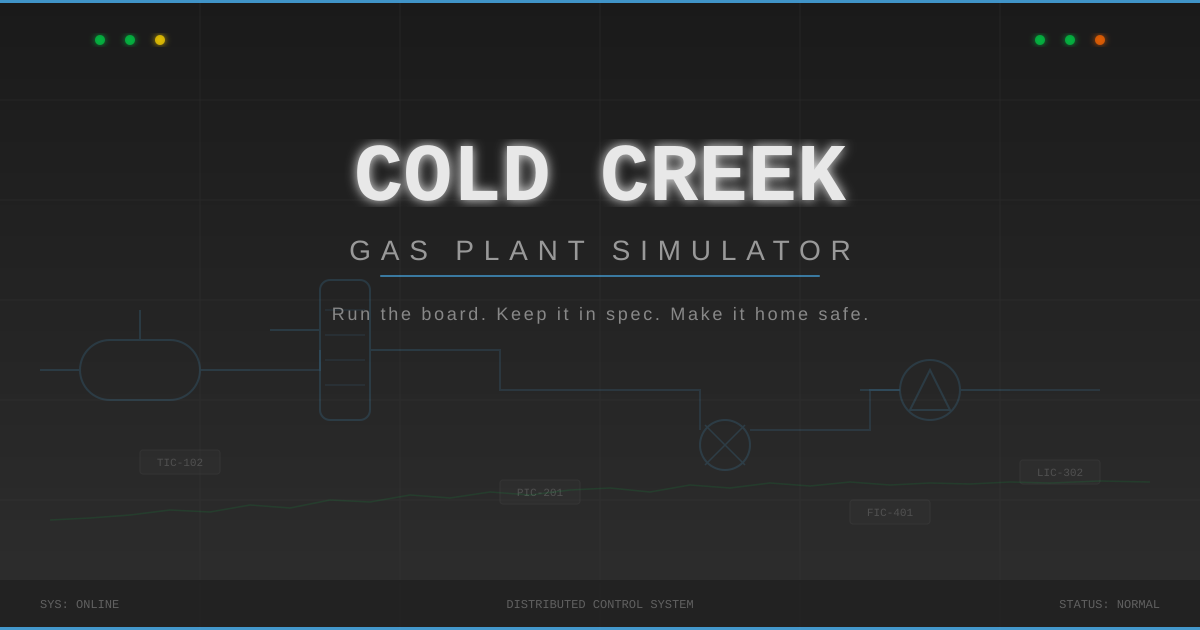
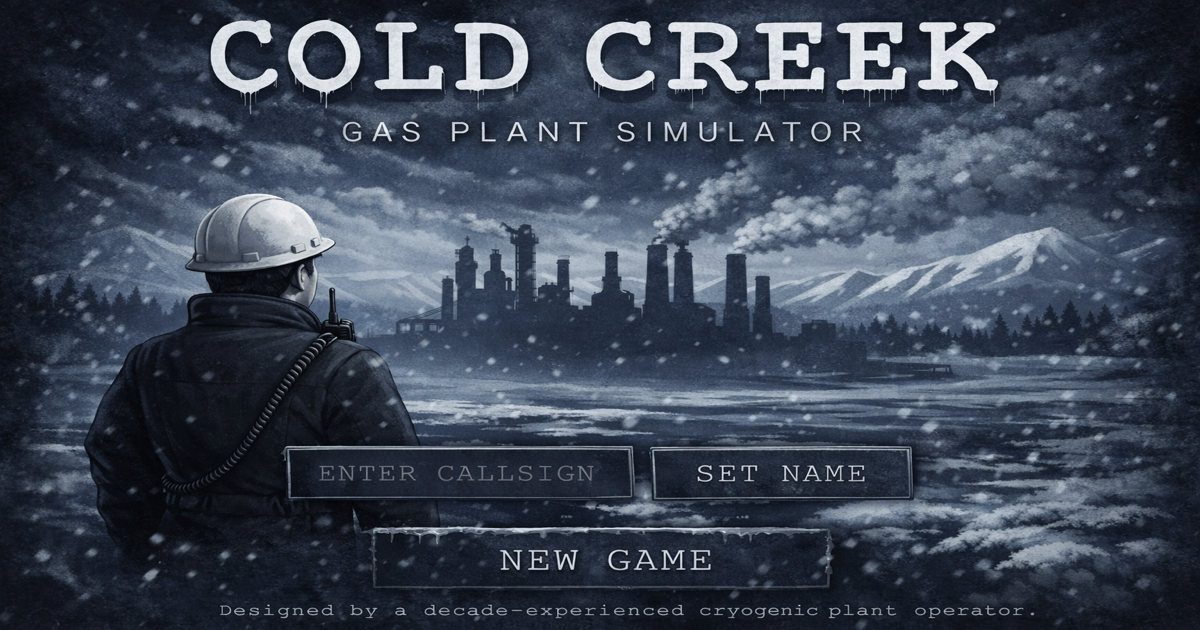
Landing page art: background image + new OG social card
- Added landing-bg.jpg as title screen background with dark gradient overlay
- Replaced og-image.png with the new operator/plant artwork (1200x630)
- Title screen: background-image with cover, gradient fade to dark below
- Content stays readable with z-index layering over the background

diff --git a/style.css b/style.css
@@ -109,9 +109,22 @@ html, body {
   align-items: center;
   justify-content: flex-start;
   background: var(--bg-deep);
+  background-image: url('/landing-bg.jpg');
+  background-size: cover;
+  background-position: center top;
+  background-repeat: no-repeat;
   overflow-y: auto;
   -webkit-overflow-scrolling: touch;
   padding: env(safe-area-inset-top, 20px) 16px 20px;
+  position: relative;
+}
+#title-screen::before {
+  content: '';
+  position: absolute;
+  inset: 0;
+  background: linear-gradient(to bottom, rgba(0,0,0,0.3) 0%, rgba(0,0,0,0.6) 40%, rgba(26,26,26,0.95) 70%, #1a1a1a 100%);
+  pointer-events: none;
+  z-index: 0;
 }
 .title-content {
   text-align: center;
@@ -119,6 +132,8 @@ html, body {
   max-width: 500px;
   padding-top: 24px;
   margin: auto 0;
+  position: relative;
+  z-index: 1;
 }
 .title-logo {
   font-family: var(--font-mono);

diff --git a/scripts/build.js b/scripts/build.js
@@ -23,6 +23,7 @@ const items = [
   'src',
   'apple-touch-icon.png',
   'og-image.png',
+  'landing-bg.jpg',
   'manifest.json',
   'sw.js',
   'favicon.svg',
